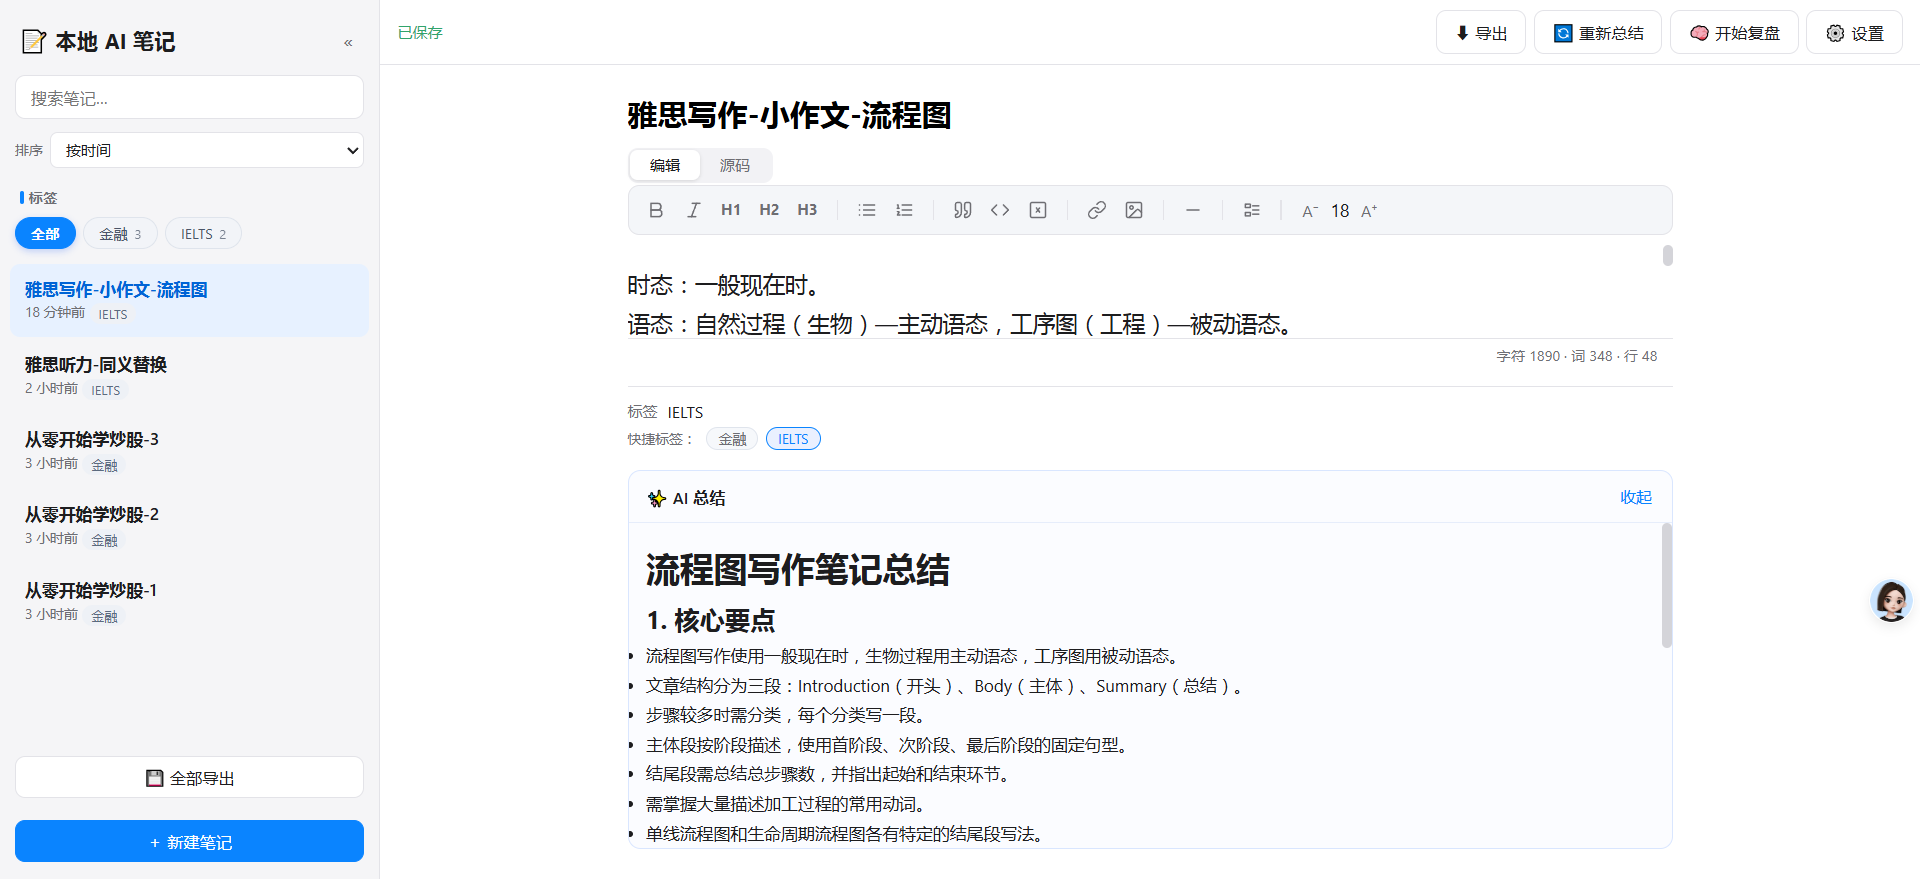
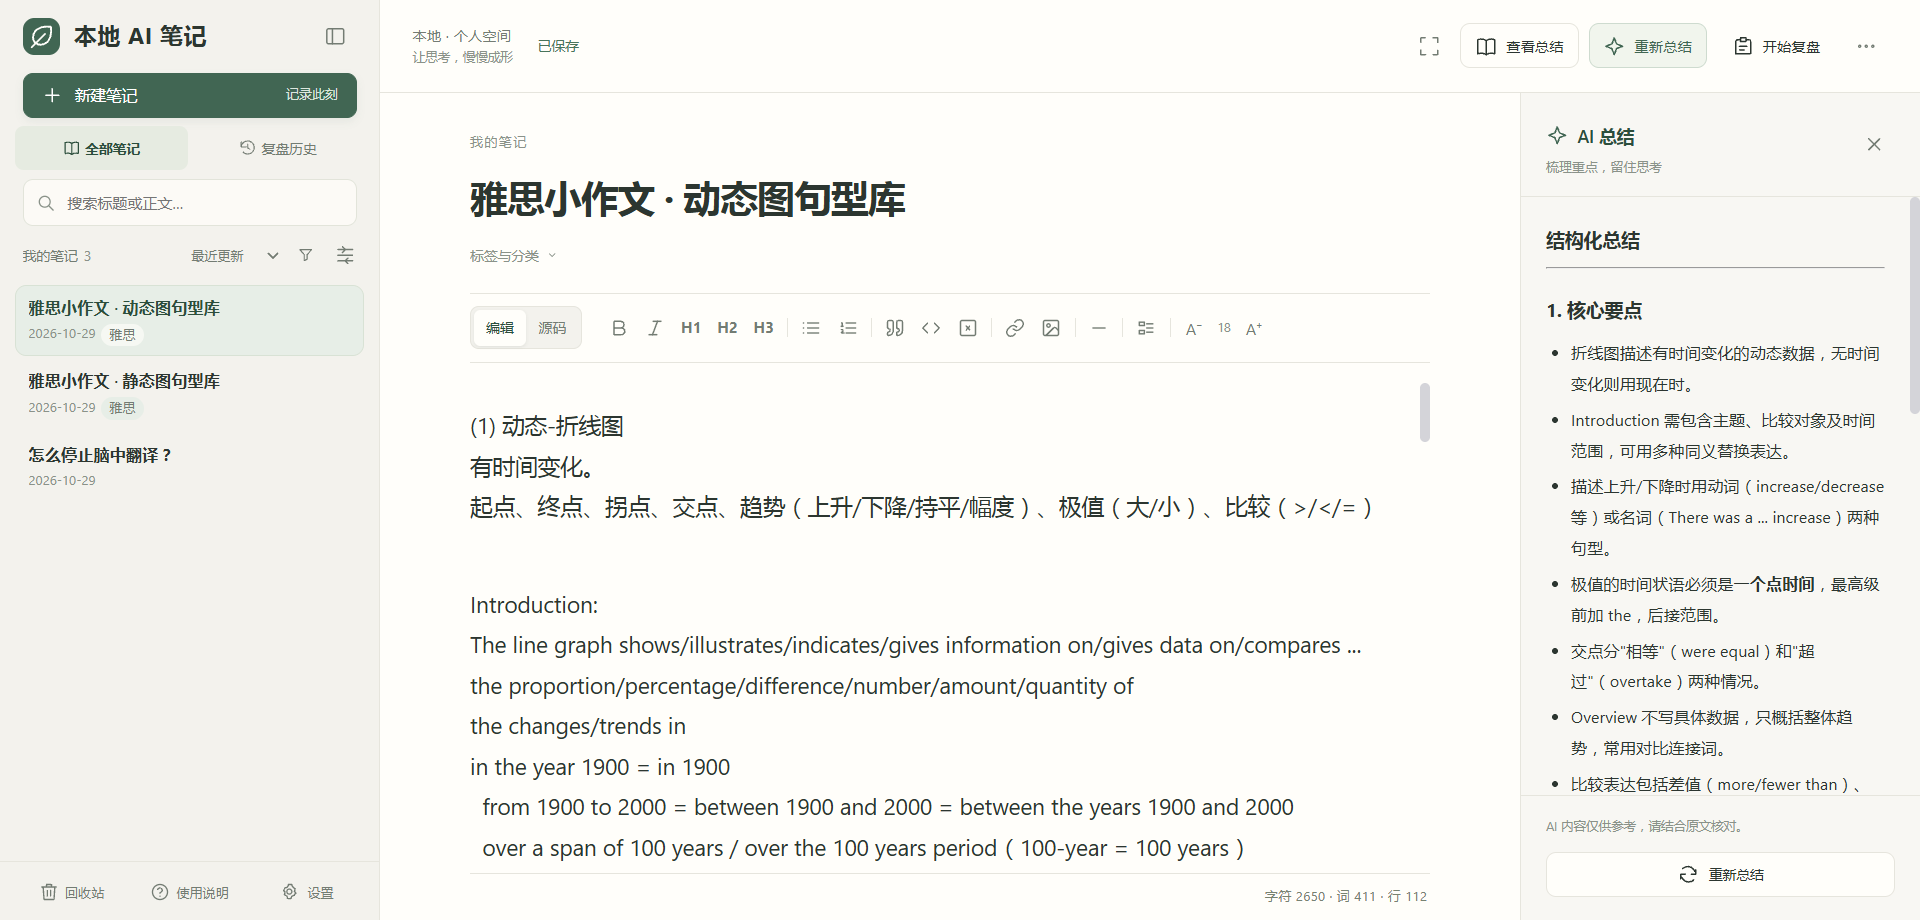
使用说明复盘章节对齐弹窗勾选流程 + 更新界面截图

diff --git a/server.js b/server.js
@@ -61,12 +61,11 @@ const DEFAULT_GUIDE = [
   "- API Key 加密保存在本机数据目录；AI 只在你发起总结或复盘等操作时调用，相关笔记内容会交给所选 AI 服务处理，结果请结合原文判断。",
   "",
   "## 提问式复盘",
-  "1. 先给需要复盘的笔记添加同一个标签。",
-  "2. 点击左侧列表上方的漏斗图标（标签筛选），选择该标签，再点击「开始复盘」。",
-  "3. 在弹出的列表里勾选一篇或多篇笔记，确认后进入复盘页面。",
-  "4. 根据题目输入回答并提交，查看正确／部分正确／不正确的判断、解释与原文引用，再继续下一题。",
-  "5. 完成后查看复盘报告；也可使用「结束复盘」提前结束。复盘过程中先结束当前复盘，再切换笔记。",
-  "6. 点击侧栏上方「复盘历史」，查看过往报告和逐题回答。删除的复盘记录会进入回收站，可恢复。",
+  "1. 打开任意一篇笔记，点击上方「开始复盘」。",
+  "2. 在弹出的列表中按需用标签筛选，勾选一篇或多篇笔记（默认全不选；合计超过 40000 字时，请减少所选笔记或拆分长笔记），再点击弹窗内的「开始复盘」。",
+  "3. 根据题目输入回答并提交，查看「回答正确／部分正确／回答不对」的判断、解释与原文引用，再继续下一题。",
+  "4. 完成后查看复盘报告；也可使用「结束复盘」提前结束。复盘过程中先结束当前复盘，再切换笔记。",
+  "5. 点击侧栏上方「复盘历史」，查看过往报告和逐题回答。删除的复盘记录会进入回收站，可恢复。",
   "",
   "## 导出、删除与恢复",
   "- 点击工作区右上角「更多操作」（三个圆点），选择「导出当前笔记」，或通过「导出全部笔记」合并导出为 Markdown 文件（.md）。全部导出包括所有笔记，不只当前筛选结果。",
